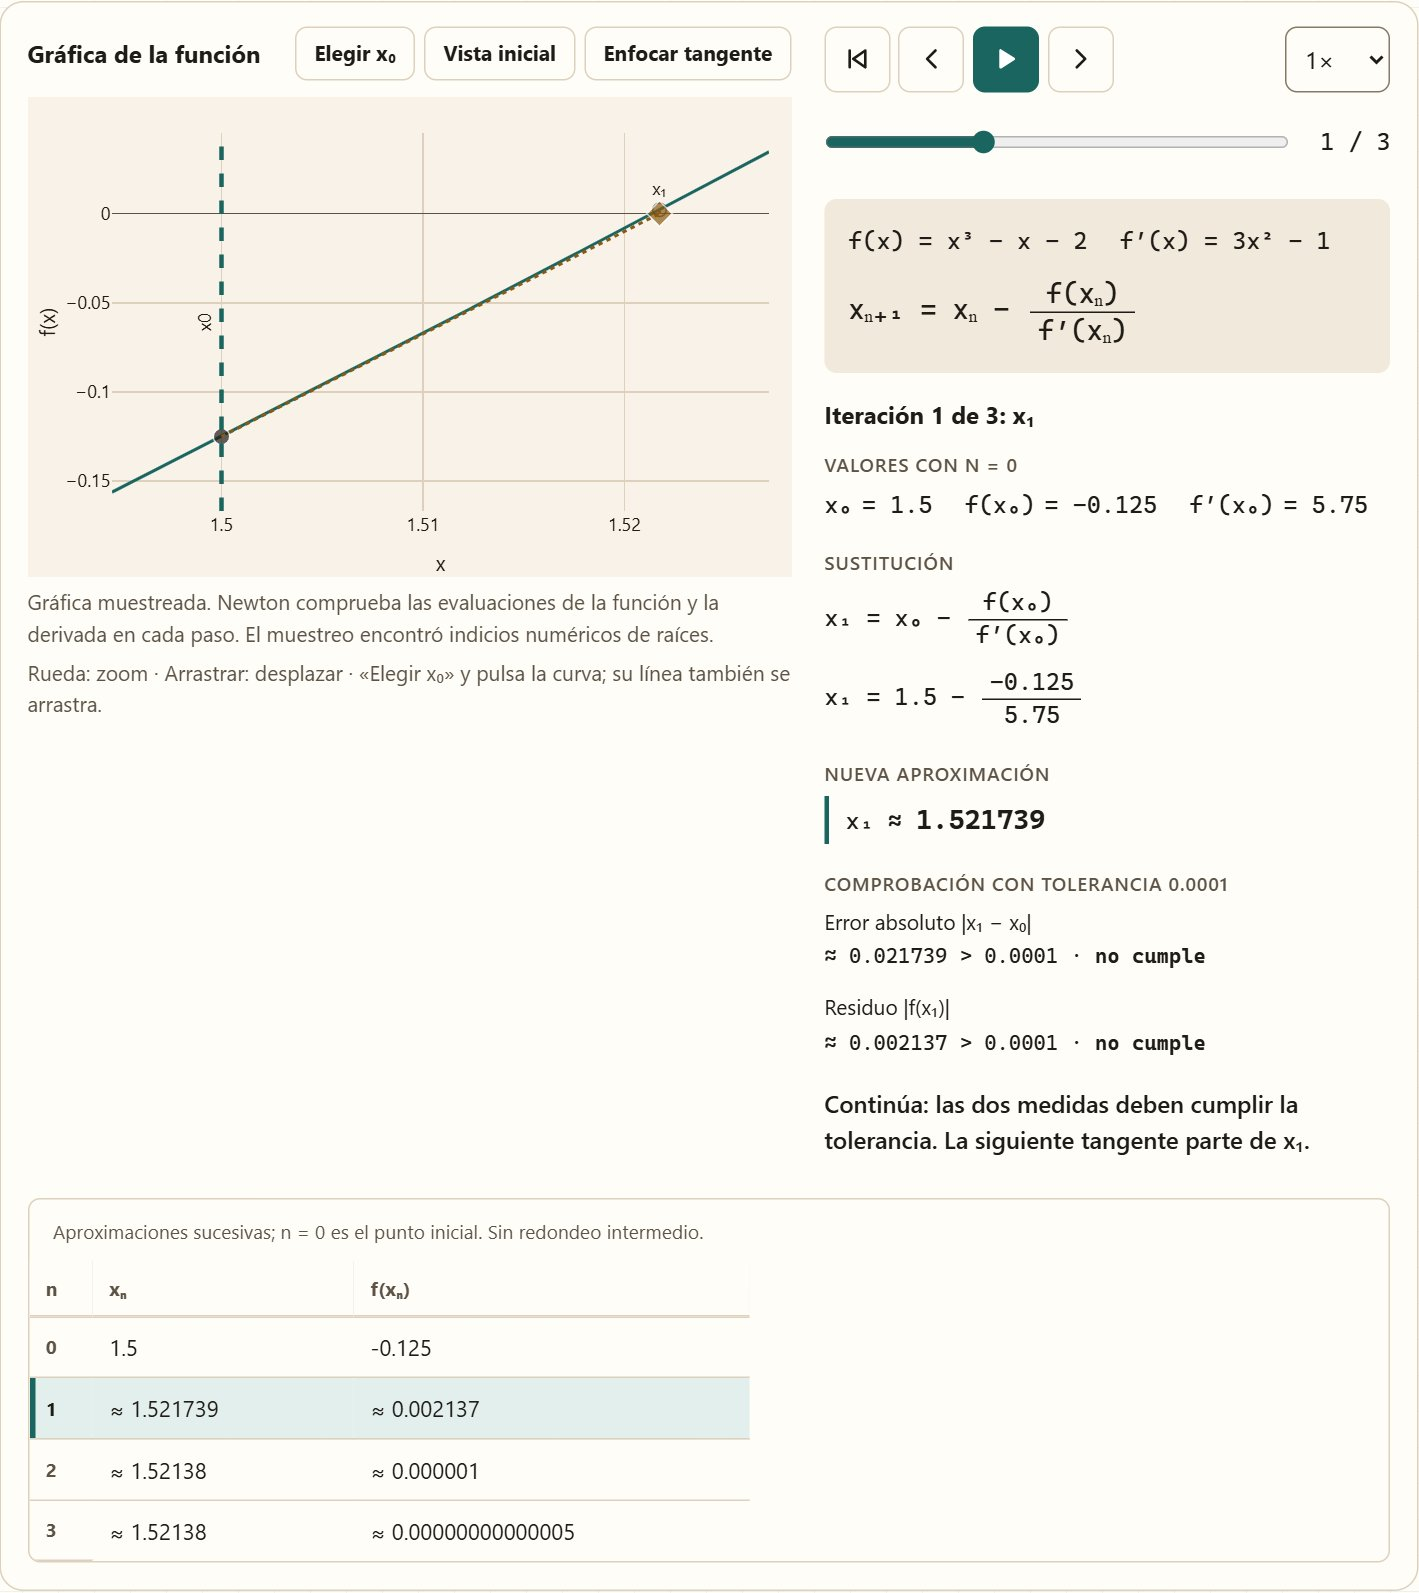
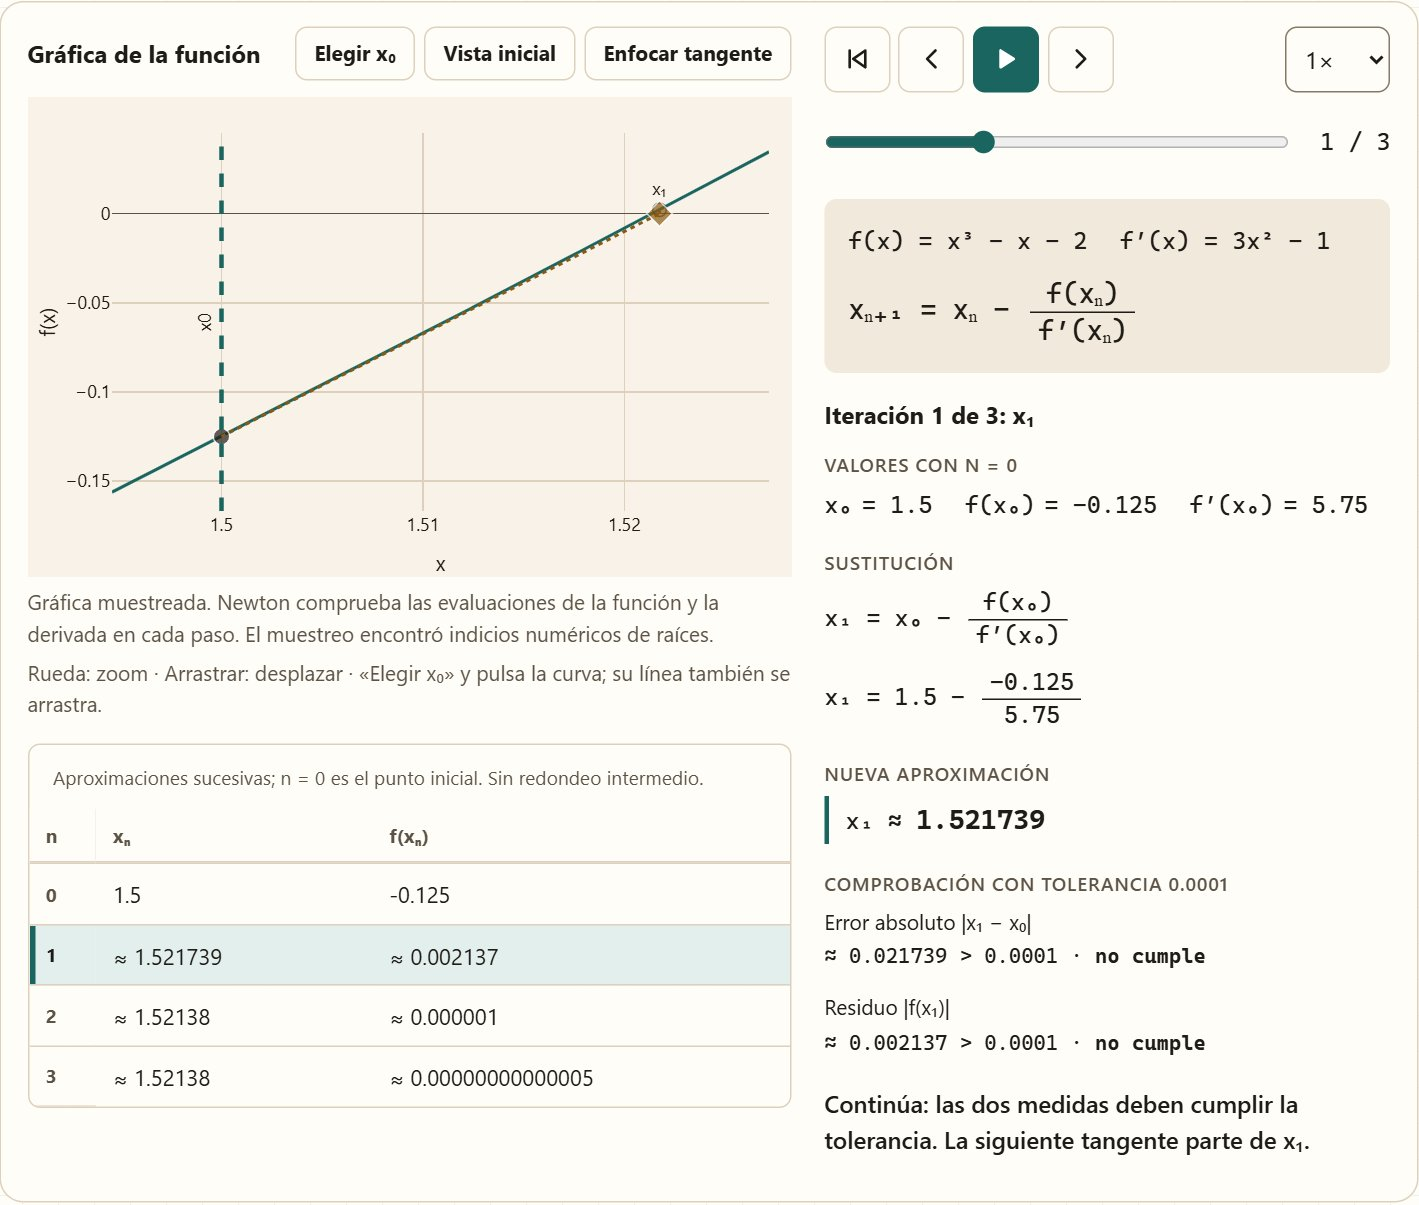
docs: registrar la disposición de Newton y actualizar sus capturas

diff --git a/docs/newton-raphson.md b/docs/newton-raphson.md
@@ -72,6 +72,10 @@ otro caso. Las fracciones son HTML y CSS, sin biblioteca de fórmulas; los lecto
 de pantalla reciben su forma lineal, `(f(x₀))/(f′(x₀))`. Una fórmula que no cabe se
 desplaza en horizontal dentro de su línea, sin ensanchar la página.
 
+En escritorio, la explicación ocupa la columna derecha a toda altura y la tabla sube
+bajo la gráfica, en la columna izquierda: gráfica, tabla y sustitución se ven a la vez.
+Por debajo de 44rem de ancho de la zona, el orden es gráfica, explicación y tabla.
+
 Newton depende del punto inicial y del comportamiento de la función. Un salto
 fuera del dominio, una derivada nula o un salto no finito pueden detenerlo.
 Las oscilaciones sin repetición exacta y la divergencia finita pueden alcanzar
@@ -88,7 +92,8 @@ condición matemática se presenta como error de la aplicación.
 
 Debajo, la gráfica y la explicación breve del paso activo comparten una fila en
 escritorio; la tabla tiene una fila por iteración y desplazamiento propio, para verse
-junto a la gráfica. El reproductor ofrece Reiniciar, Anterior, Reproducir/Pausar,
+junto a la gráfica. En Bisección y Regla Falsa va debajo de ambas, a todo el ancho; en
+Newton, bajo la gráfica, porque su explicación es más alta. El reproductor ofrece Reiniciar, Anterior, Reproducir/Pausar,
 Siguiente, barra de progreso y velocidades 0.5×, 1×, 2× y 4×. Empieza en pausa en la
 primera iteración. Al terminar, cambiar los datos, enviar otro cálculo u ocultar la
 pestaña, se detiene. Un clic en una fila la selecciona; con el foco en la tabla, las

diff --git a/docs/pruebas.md b/docs/pruebas.md
@@ -25,6 +25,11 @@ Ajuste didáctico sin cambiar algoritmos, criterios de parada ni la versión 0.1
 - **WebView2 157 (ejecutable de PyInstaller):** 23/23, 12/12 y 10/10, normal y con movimiento
   reducido, sin errores de consola. En escritorio, elegir decimales guarda la preferencia con
   una petición a `/preferencias/`: el caso nuevo elige los decimales antes de contar peticiones.
+- **Disposición:** en escritorio la tabla de Newton va bajo la gráfica (columna izquierda) y
+  la explicación a la derecha. Medida en Edge (Estudio y Minimalista, 1280, 1024, 744 y
+  390 px): Bisección y Regla Falsa conservan exactamente la misma geometría que antes, y
+  Newton solo cambia en escritorio. Los runners lo comprueban: la tabla de Bisección sigue a
+  todo el ancho y la de Newton bajo la gráfica a 1280 px y al final en columna única.
 - **Visual:** zona de estudio sin desborde en Estudio y Minimalista, claro y oscuro, a
   1280, 744 y 390 px, también con «Precisión completa». Capturas:
   [sustitución en Estudio](capturas/raices/09-newton-sustitucion-estudio-1280.jpg),
